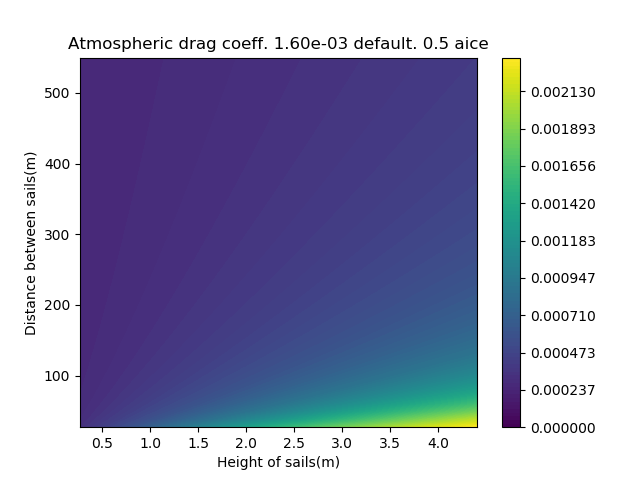
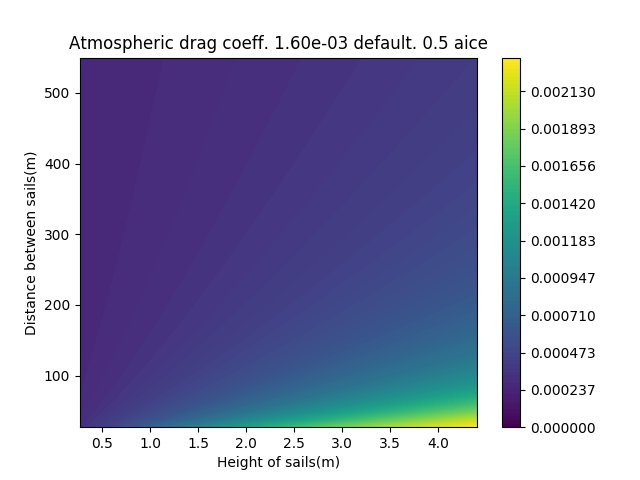
object oriented version working, now to add tests

Changed region(s): [[0.0938, 0.0625, 0.7812, 0.125]]

diff --git a/toy_system.py b/toy_system.py
@@ -57,11 +57,11 @@ class ice:
 
     #Now the form drag coefficient from sails
     def C_dar_fun(self,H_s,D_s,z_0):
-        return 0.5*c_ra*S_c_fun(D_s,H_s)*(H_s/D_s)*A*pow((np.log(H_s/z_0)/np.log(10/z_0)),2.0)
+        return 0.5*c_ra*self.S_c_fun(D_s,H_s)*(H_s/D_s)*A*pow((np.log(H_s/z_0)/np.log(10/z_0)),2.0)
 
     #Form drag coefficient from keels
     def C_dwr_fun(self,H_k,D_k,z_0):
-        return 0.5*c_kw*S_c_fun(D_k,H_k)*(H_k/D_k)*A*pow((np.log(H_k/z_0)/np.log(10/z_0)),2.0)
+        return 0.5*c_kw*self.S_c_fun(D_k,H_k)*(H_k/D_k)*A*pow((np.log(H_k/z_0)/np.log(10/z_0)),2.0)
 
     #Skin drag coefficient for atmosphere
     def C_das_fun(self,H_s,D_s):
@@ -85,7 +85,7 @@ class ice:
     def F_ocean(self,C_d):
         # 1 J/s = 1 W so no unit conversion needed...
         #need momentum
-        mag_tau = np.abs(tau_ocean_fun(C_d))
+        mag_tau = np.abs(self.tau_ocean_fun(C_d))
         return -C_d*cp*rho_w*delta_T*math.sqrt(mag_tau/rho_w)
 
     #sensible heat transfer(atmospheric)
@@ -98,7 +98,40 @@ class ice:
     def F_atmosphere_total(self,c):
         return F_atmosphere_sensible(c) + F_atmosphere_latent(c)
   
-    
+    def stability_fun(self,c_d, c_s, c_l):
+        #given transfer coefficients calculate stability
+        return (self.gamma_c/(c_d**2))*(c_s*self.s_1 + c_l*self.s_2)
+
+    #get compact form of stability
+    def chi_fun(self, stability):
+        return (1 - 16*stability)**(0.25)
+
+    #get psi's (integrated flux profiles) from stability 
+    def psi_fun(self, stability, chi):
+        if stability<0:
+            psi_m = 2*np.log(0.5*(1 + chi)) + np.log(0.5*(1 + chi**2)) - 2*np.arctan(chi) + (math.pi/2)
+            psi_s = 2*np.log(0.5*(1 + chi**2)) 
+        else:
+            psi_m = -(0.7*stability + 0.75*(stability - 14.3)*np.exp(-0.35*stability) + 10.7)
+            psi_s = psi_m        
+        return psi_m, psi_s 
+
+    #iterate the drag coefficients 5 times. This is the overall function called 
+    #when wanting to calculate drag coefficients.  
+    def iterdrag(self, c_d):
+        c_d = c_d
+        c_s = c_d
+        c_l = c_d
+        for i in range(5):
+            stability = self.stability_fun(c_d,c_s,c_l)
+            chi = self.chi_fun(stability)
+            psi_m, psi_s = self.psi_fun(stability,chi)
+            #now updating coefficients based on psi
+            c_d = c_d/(1 + (c_d/kappa)*(my_lambda - psi_m))
+            c_s = c_s/(1 + (c_s/kappa)*(my_lambda - psi_s))
+            c_l = c_s
+        return c_d, c_s, c_l
+        
     def __init__(self,A,H_s,D_s,z_0a,z_0w,T_z0):
         #ice concentration
         self.A = A
@@ -119,18 +152,33 @@ class ice:
         #pressure at 10m
         self.P_10 = self.pressure(10)
         #potential temperature at roughness length
-        self.theta_z0 = self.potential_temp(P_z0,T_z0)
+        self.theta_z0 = self.potential_temp(self.P_z0,self.T_z0)
         #potential temperature at 10m
-        self.theta_10 = self.potential_temp(P_10,T_10)
+        self.theta_10 = self.potential_temp(self.P_10,self.T_10)
         #specific humidity
-        self.h_s_z0 = self.specific_humidity(P_z0,T_z0)
-        self.h_s_10 = self.specific_humidity(P_10,T_10)
+        self.h_s_z0 = self.specific_humidity(self.P_z0,self.T_z0)
+        self.h_s_10 = self.specific_humidity(self.P_10,self.T_10)
         #Height of keels
         self.H_k = self.H_k_fun(self.H_s)
         #Distance between keels
         self.D_k = self.D_k_fun(self.D_s)
-
+        #Constants that go into stability calculation
+        self.gamma_c = (kappa*g*self.z_0a)/(u_a**2)
+        self.s_1 = (self.theta_10 - self.theta_z0)/(self.theta_z0*(1 + 0.606*self.h_s_z0))
+        self.s_2 = (self.h_s_10 - self.h_s_z0)/(1/0.606 + self.h_s_z0) 
  
+        #VECTORIZE FUNCTIONS SO THAT WE CAN PASS MATRICES TO THEM
+        self.stability_fun = np.vectorize(self.stability_fun)
+        self.chi_fun = np.vectorize(self.chi_fun)
+        self.psi_fun = np.vectorize(self.psi_fun)
+        self.iterdrag = np.vectorize(self.iterdrag)
+        
+        #making default drag coefficients
+        C_d_atmosphere,C_s_atmosphere,C_l_atmosphere = self.iterdrag(C_d_a_init)
+        #now storing them in a nice string format to put in plot titles
+        self.C_d_atmosphere_default = '{:.2e}'.format(C_d_atmosphere)
+        self.C_s_atmosphere_default = '{:.2e}'.format(C_s_atmosphere)
+
     def plot_3d(self):
         #function to plot 3d surface of dependence of drag coefficient on height of sails and distance between sails
         
@@ -139,10 +187,10 @@ class ice:
         x_k,y_k = np.meshgrid(self.H_k,self.D_k)
         
         #calculating coefficients (form and skin)
-        totalsailform = C_dar_fun(x_s,y_s,self.z_0a)
-        totalkeelform = C_dwr_fun(x_k,y_k,self.z_0w)
-        totalsailskin = C_das_fun(x_s,y_s)
-        totalkeelskin = C_dws_fun(x_k,y_k)
+        totalsailform = self.C_dar_fun(x_s,y_s,self.z_0a)
+        totalkeelform = self.C_dwr_fun(x_k,y_k,self.z_0w)
+        totalsailskin = self.C_das_fun(x_s,y_s)
+        totalkeelskin = self.C_dws_fun(x_k,y_k)
         totalkeel = totalkeelform + totalkeelskin
         totalsail = totalsailform + totalsailskin
 
@@ -164,13 +212,13 @@ class ice:
         ###PLOTTING ATMOSPHERIC MOMENTUM CO-EFF### 
         #printing min, max, default
         print("Atmospheric momentum:")
-        print("min {}\n max {}\n default {}".format(np.min(c_d_a),np.max(c_d_a),C_d_atmosphere_default))
+        print("min {}\n max {}\n default {}".format(np.min(c_d_a),np.max(c_d_a),self.C_d_atmosphere_default))
         cp = plt.contourf(x_s,y_s,c_d_a,levels=np.linspace(0,np.max(c_d_a),100))
         plt.colorbar(cp)
         cp.set_clim(0,np.max(c_d_a))
         plt.xlabel("Height of sails(m)")
         plt.ylabel("Distance between sails(m)")
-        plt.title("Atmospheric drag coeff. {} default. {} aice".format(C_d_atmosphere_default,A))
+        plt.title("Atmospheric drag coeff. {} default. {} aice".format(self.C_d_atmosphere_default,A))
         plt.savefig('atmosphere_momentum_3d_{}.png'.format(A))
         plt.close('all')
         
@@ -202,13 +250,13 @@ class ice:
         
         ###PLOTTING ATMOSPHERIC HEAT TRANSFER###
         print("Atmospheric heat:")
-        print("min {}\n max {}\n default {}".format(np.min(c_s_a),np.max(c_s_a),C_s_atmosphere_default))
+        print("min {}\n max {}\n default {}".format(np.min(c_s_a),np.max(c_s_a),self.C_s_atmosphere_default))
         cp = plt.contourf(x_s,y_s,c_s_a,levels=np.linspace(0,np.max(np.abs(c_s_a))),cmap='inferno')
         plt.colorbar(cp)
         cp.set_clim(0,np.max(c_s_a))
         plt.xlabel("Height of sails(m)")
         plt.ylabel("Distance between sails(m)")
-        plt.title("Atmospheric heat transfer coeff. {} default. {} aice".format(C_s_atmosphere_default,A))
+        plt.title("Atmospheric heat transfer coeff. {} default. {} aice".format(self.C_s_atmosphere_default,A))
         plt.savefig('atmosphere_heat_3d_{}.png'.format(A))
         plt.close('all')
     
@@ -220,68 +268,8 @@ class ice:
         print("specific humidity at z_0 is {}".format(self.h_s_z0))
         print("specific humidity at 10m is {}".format(self.h_s_10))
 
-#now calculating stability
-#gamma = (gamma_c/(C_d**2))*(s1*C_s + s2*C_l)
-#constant out the front
-gamma_c = (kappa*g*z_0a)/(u_a**2)
-s_1 = (theta_10 - theta_z0)/(theta_z0*(1 + 0.606*h_s_z0))
-s_2 = (h_s_10 - h_s_z0)/(1/0.606 + h_s_z0)
-print("s_1 is {}, s_2 is {}".format(s_1,s_2))
-print("gamma_c is {}".format(gamma_c))
-
-def stability_fun(c_d, c_s, c_l):
-    #given transfer coefficients calculate stability
-    return (gamma_c/(c_d**2))*(c_s*s_1 + c_l*s_2)
-
-#get compact form of stability
-def chi_fun(stability):
-    return (1 - 16*stability)**(0.25)
-
-#get psi's (integrated flux profiles) from stability 
-def psi_fun(stability, chi):
-    if stability<0:
-        psi_m = 2*np.log(0.5*(1 + chi)) + np.log(0.5*(1 + chi**2)) - 2*np.arctan(chi) + (math.pi/2)
-        psi_s = 2*np.log(0.5*(1 + chi**2)) 
-    else:
-        psi_m = -(0.7*stability + 0.75*(stability - 14.3)*np.exp(-0.35*stability) + 10.7)
-        psi_s = psi_m        
-    return psi_m, psi_s 
-
-def iterdrag(c_d):
-    c_d = c_d
-    c_s = c_d
-    c_l = c_d
-    for i in range(5):
-        stability = stability_fun(c_d,c_s,c_l)
-        chi = chi_fun(stability)
-        psi_m, psi_s = psi_fun(stability,chi)
-        #now updating coefficients based on psi
-        c_d = c_d/(1 + (c_d/kappa)*(my_lambda - psi_m))
-        c_s = c_s/(1 + (c_s/kappa)*(my_lambda - psi_s))
-        c_l = c_s
-    return c_d, c_s, c_l
-
-#DEFAULT EXCHANGE COEFFICIENTS
-C_d_ocean_momentum = 0.006 
-C_d_ocean_heat = 0.006
-C_d_a_init = 1.31e-3
-print("DEFAULT C_D_A: {}".format(C_d_a_init))
-C_d_atmosphere,C_s_atmosphere,C_l_atmosphere = iterdrag(C_d_a_init)
-print("Iterated C_D_A: {}".format(C_d_atmosphere))
-
-#convert to nice string to put in plot title
-C_d_atmosphere_default = '{:.2e}'.format(C_d_atmosphere)
-C_s_atmosphere_default = '{:.2e}'.format(C_s_atmosphere)
-
-#vectorizing all functions
-tau_atmosphere_fun = np.vectorize(tau_atmosphere_fun)
-tau_ocean_fun = np.vectorize(tau_ocean_fun)
-F_ocean = np.vectorize(F_ocean)
-psi_fun = np.vectorize(psi_fun)
-iterdrag = np.vectorize(iterdrag)
-
 my_H_s = np.linspace(0.3*0.9,4.0*1.1,50)  
 my_D_s = np.linspace(30.0*0.9,500.0*1.1,50)
-plot_3d(my_H_s,my_D_s)
 testice = ice(0.5,my_H_s,my_D_s,0.16e-3,0.0061,263.65)
 testice.display()
+testice.plot_3d()

diff --git a/constants.py b/constants.py
@@ -75,3 +75,8 @@ yotta = 2260e3
 z_0a = 0.16e-3
 z_0w = 0.0061
 my_lambda = np.log(z_0a/10)
+
+C_d_ocean_momentum = 0.006 
+C_d_ocean_heat = 0.006
+C_d_a_init = 1.31e-3
+
